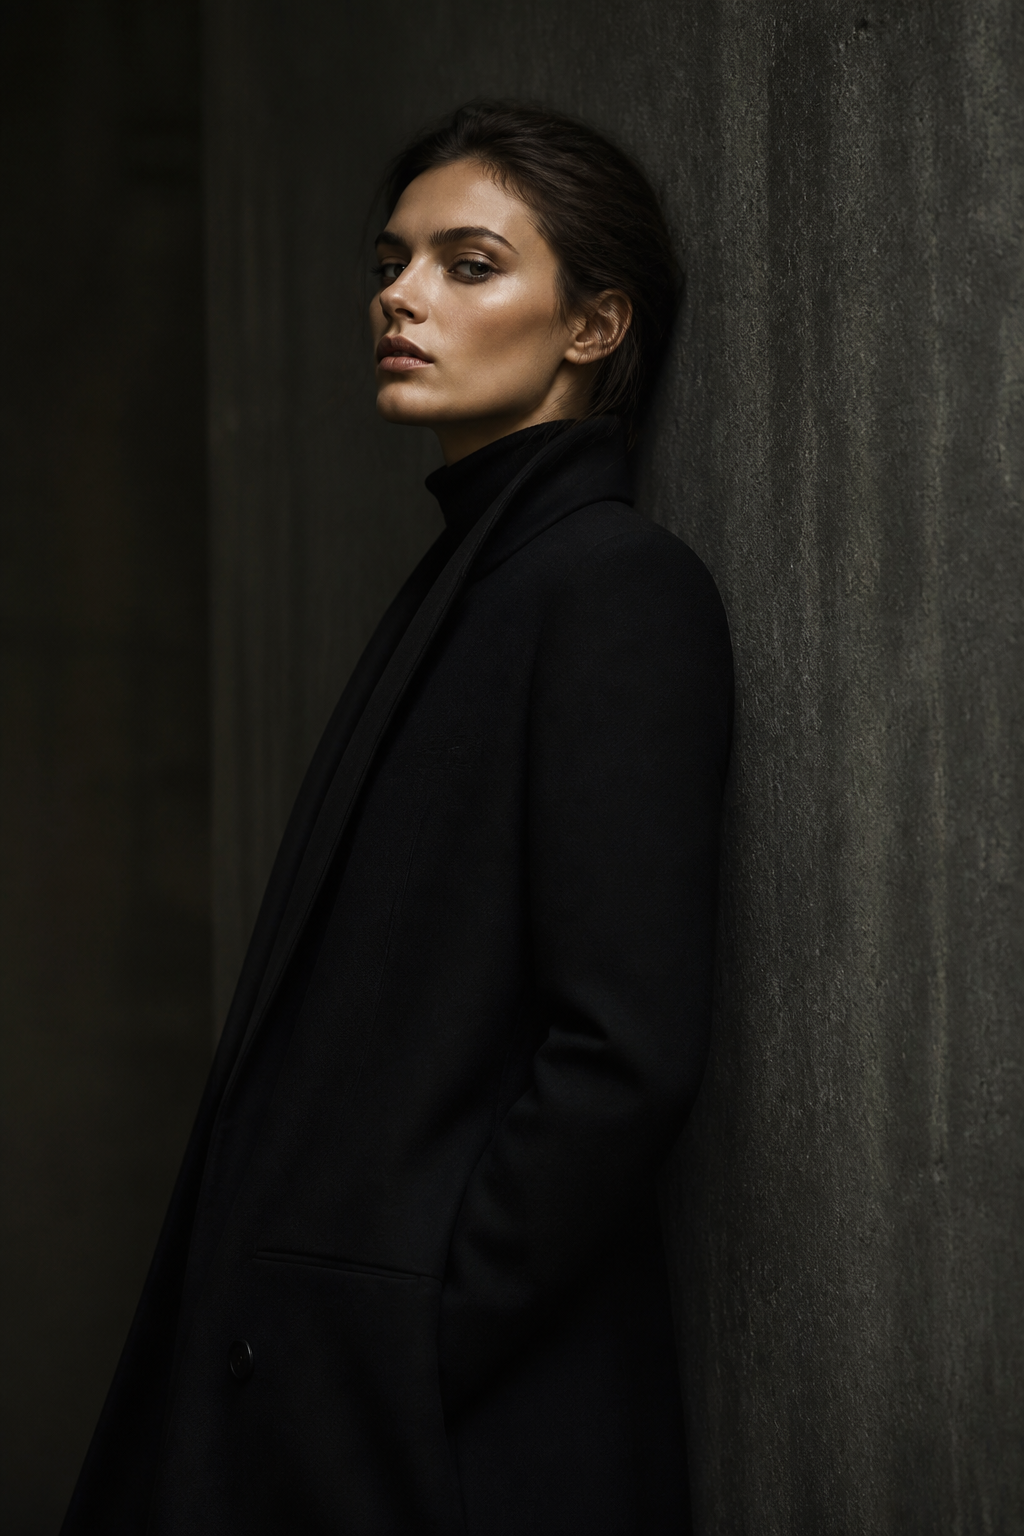
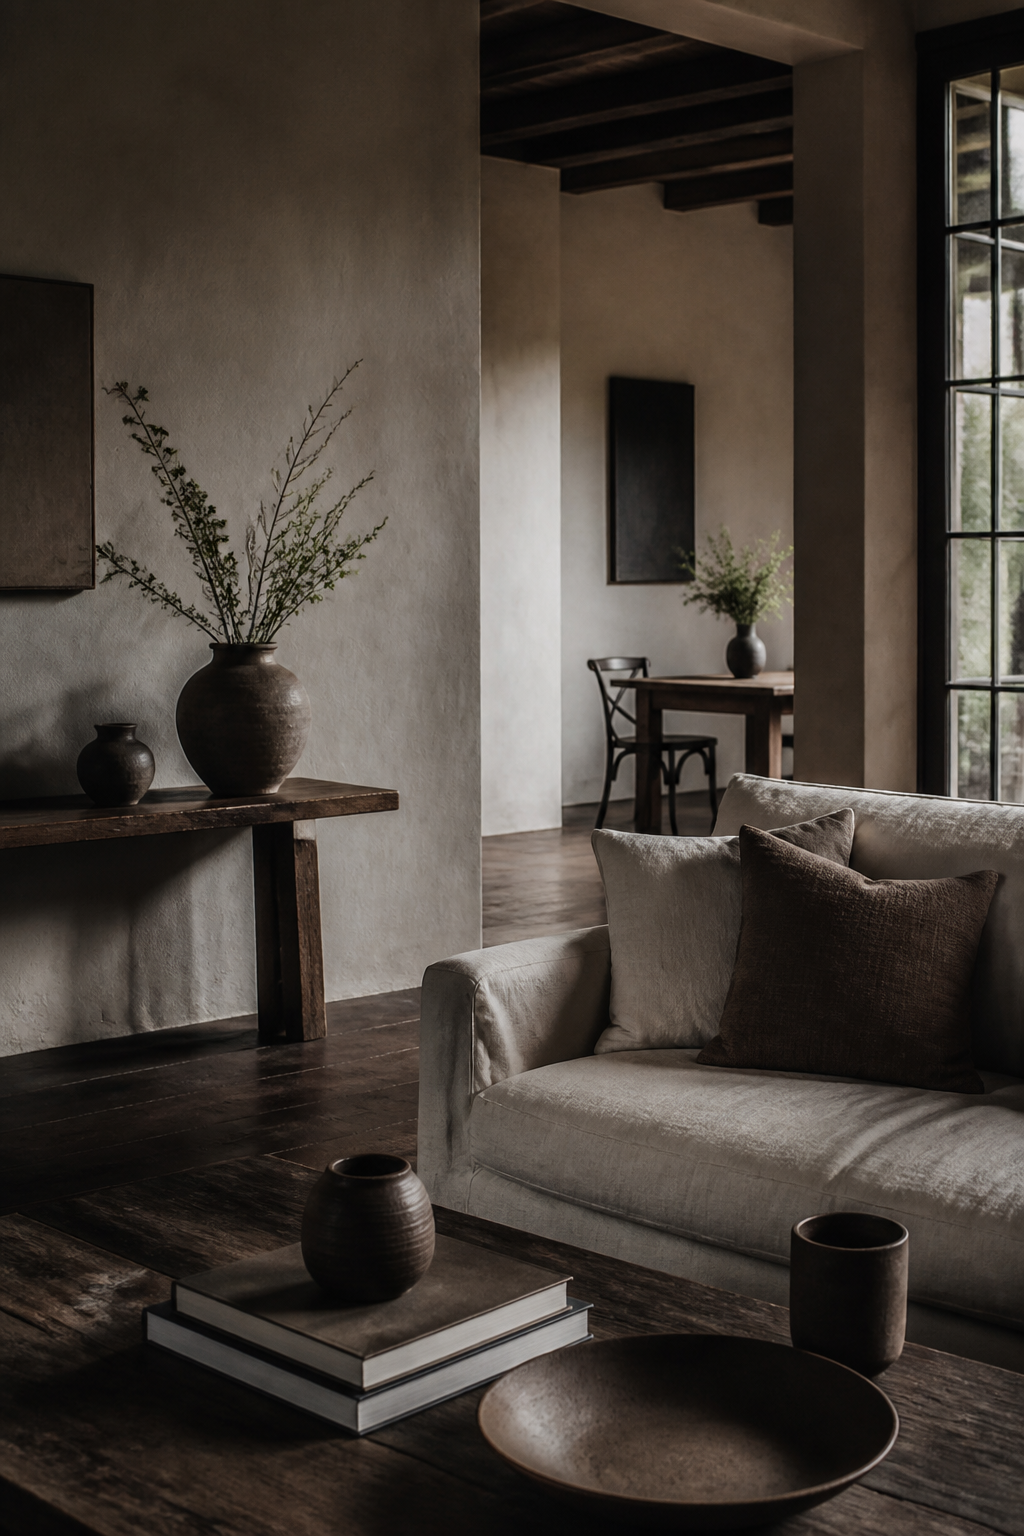
Unify venture card layout, shift Vulcira to lifestyle brand, update typography
- Use shared full-bleed VentureCard layout for all three homepage ventures
- Reposition Vulcira copy and imagery toward lifestyle brand
- Replace Bodoni Moda/DM Sans with Libre Baskerville/Source Sans 3
- Reduce decorative letter-spacing for a more formal, less trendy feel

diff --git a/src/data/venture-pages.ts b/src/data/venture-pages.ts
@@ -16,29 +16,29 @@ export const venturePages: VenturePage[] = [
   {
     slug: 'vulcira',
     name: 'Vulcira',
-    eyebrow: 'High Fashion',
-    title: 'Contemporary fashion with disciplined creative direction.',
+    eyebrow: 'Lifestyle Brand',
+    title: 'A lifestyle brand built around considered living.',
     intro:
-      'Vulcira is a fashion-led venture shaped by editorial sensibility, strong visual identity, and a commitment to craft. The work sits at the intersection of contemporary culture and considered design — deliberate in tone, precise in execution, and built for longevity rather than trend.',
+      'Vulcira is a lifestyle brand shaped by culture, environment, and the details of everyday life. The work spans products, experiences, and visual identity — developed with restraint, quality, and a long-term view of what it means to live well.',
     sections: [
       {
-        heading: 'Visual Identity',
+        heading: 'Everyday Culture',
         body:
-          'Every collection and communication is approached with the rigor of a creative studio. Typography, material, silhouette, and pacing are treated as a unified language — restrained, intentional, and unmistakably Vulcira.',
+          'Vulcira draws from the rhythms of daily life — home, travel, personal style, and the objects people choose to keep close. The brand is interested in what lasts: habits, materials, and environments that feel intentional rather than performative.',
       },
       {
-        heading: 'Cultural Position',
+        heading: 'Products & Experiences',
         body:
-          'Vulcira draws from fashion, publishing, and modern enterprise without borrowing their clichés. The brand is contemporary without being loud, fashionable without being disposable.',
+          'From consumer goods to curated experiences, Vulcira develops offerings that reflect a coherent point of view. Each release is considered in context — how it fits into a life, not just a market category.',
       },
       {
-        heading: 'Long-Term Direction',
+        heading: 'Lasting Identity',
         body:
-          'Fashion here is not a seasonal exercise. Vulcira is developed as a lasting brand platform — one that values quality of thought, quality of making, and the discipline required to sustain both.',
+          'Vulcira is built as a durable lifestyle platform. The emphasis is on consistency of taste, clarity of purpose, and the discipline required to grow a brand that people return to over time.',
       },
     ],
     image: '/images/ventures/vulcira.jpg',
-    imageAlt: 'Editorial fashion composition — placeholder for Vulcira',
+    imageAlt: 'Lifestyle brand editorial photograph',
   },
   {
     slug: 'golden-days',
@@ -65,7 +65,7 @@ export const venturePages: VenturePage[] = [
       },
     ],
     image: '/images/ventures/golden-days.jpg',
-    imageAlt: 'Material texture study — placeholder for Golden Days',
+    imageAlt: 'Golden sunset over a beach',
   },
   {
     slug: 'chain-reaction-project',
@@ -92,7 +92,7 @@ export const venturePages: VenturePage[] = [
       },
     ],
     image: '/images/ventures/chain-reaction.jpg',
-    imageAlt: 'Abstract composition — placeholder for The Chain Reaction Project',
+    imageAlt: 'Hand reaching toward warm light',
   },
 ];
 

diff --git a/src/data/organizations.ts b/src/data/organizations.ts
@@ -21,12 +21,12 @@ export const organizations: Organization[] = [
     name: 'Vulcira',
     category: 'platform',
     shortDescription:
-      'A fashion-led venture defined by editorial sensibility, strong visual identity, and disciplined creative direction.',
+      'A lifestyle brand devoted to considered living — products, experiences, and identity shaped by culture and everyday life.',
     fullDescription:
-      'Vulcira operates at the intersection of high fashion and contemporary culture — deliberate in tone, precise in execution, and built for longevity.',
+      'Vulcira develops lifestyle offerings with a long-term perspective: restrained in tone, consistent in quality, and grounded in how people actually live.',
     websiteUrl: null,
     image: '/images/ventures/vulcira.jpg',
-    imageAlt: 'Editorial high fashion photograph',
+    imageAlt: 'Lifestyle brand editorial photograph',
     actionLabel: 'Explore Vulcira',
     pagePath: '/ventures/vulcira',
     displayOrder: 1,

diff --git a/src/styles/global.css b/src/styles/global.css
@@ -1,8 +1,8 @@
 @import "tailwindcss";
 
 @theme {
-  --font-serif: "Bodoni Moda", "Georgia", serif;
-  --font-sans: "DM Sans", system-ui, sans-serif;
+  --font-serif: "Libre Baskerville", "Georgia", "Times New Roman", serif;
+  --font-sans: "Source Sans 3", "Segoe UI", system-ui, sans-serif;
 
   --color-ink: #f0ebe3;
   --color-ink-muted: #9a948c;
@@ -74,8 +74,8 @@
   h4 {
     font-family: var(--font-serif);
     font-weight: 400;
-    line-height: 1.1;
-    letter-spacing: -0.02em;
+    line-height: 1.2;
+    letter-spacing: 0;
     text-wrap: balance;
   }
 
@@ -118,9 +118,9 @@
 
   .label-caps {
     font-family: var(--font-sans);
-    font-size: 0.6875rem;
-    font-weight: 500;
-    letter-spacing: 0.18em;
+    font-size: 0.75rem;
+    font-weight: 600;
+    letter-spacing: 0.08em;
     text-transform: uppercase;
     color: var(--color-ink-muted);
   }

diff --git a/src/data/site.ts b/src/data/site.ts
@@ -1,8 +1,8 @@
 export const site = {
   name: 'Vulcira',
-  title: 'Vulcira — Business, Fashion, and Long-Term Initiatives',
+  title: 'Vulcira — Lifestyle, Ventures, and Long-Term Initiatives',
   description:
-    'Vulcira works with Apollo Twelve LLC to build a focused group of ventures across fashion, culture, and long-term brand development.',
+    'Vulcira works with Apollo Twelve LLC to build a focused group of ventures across lifestyle, culture, and long-term brand development.',
   url: 'https://vulcira.com',
   email: 'inquiries@vulcira.com',
   ogImage: '/images/og-vulcira.jpg',
